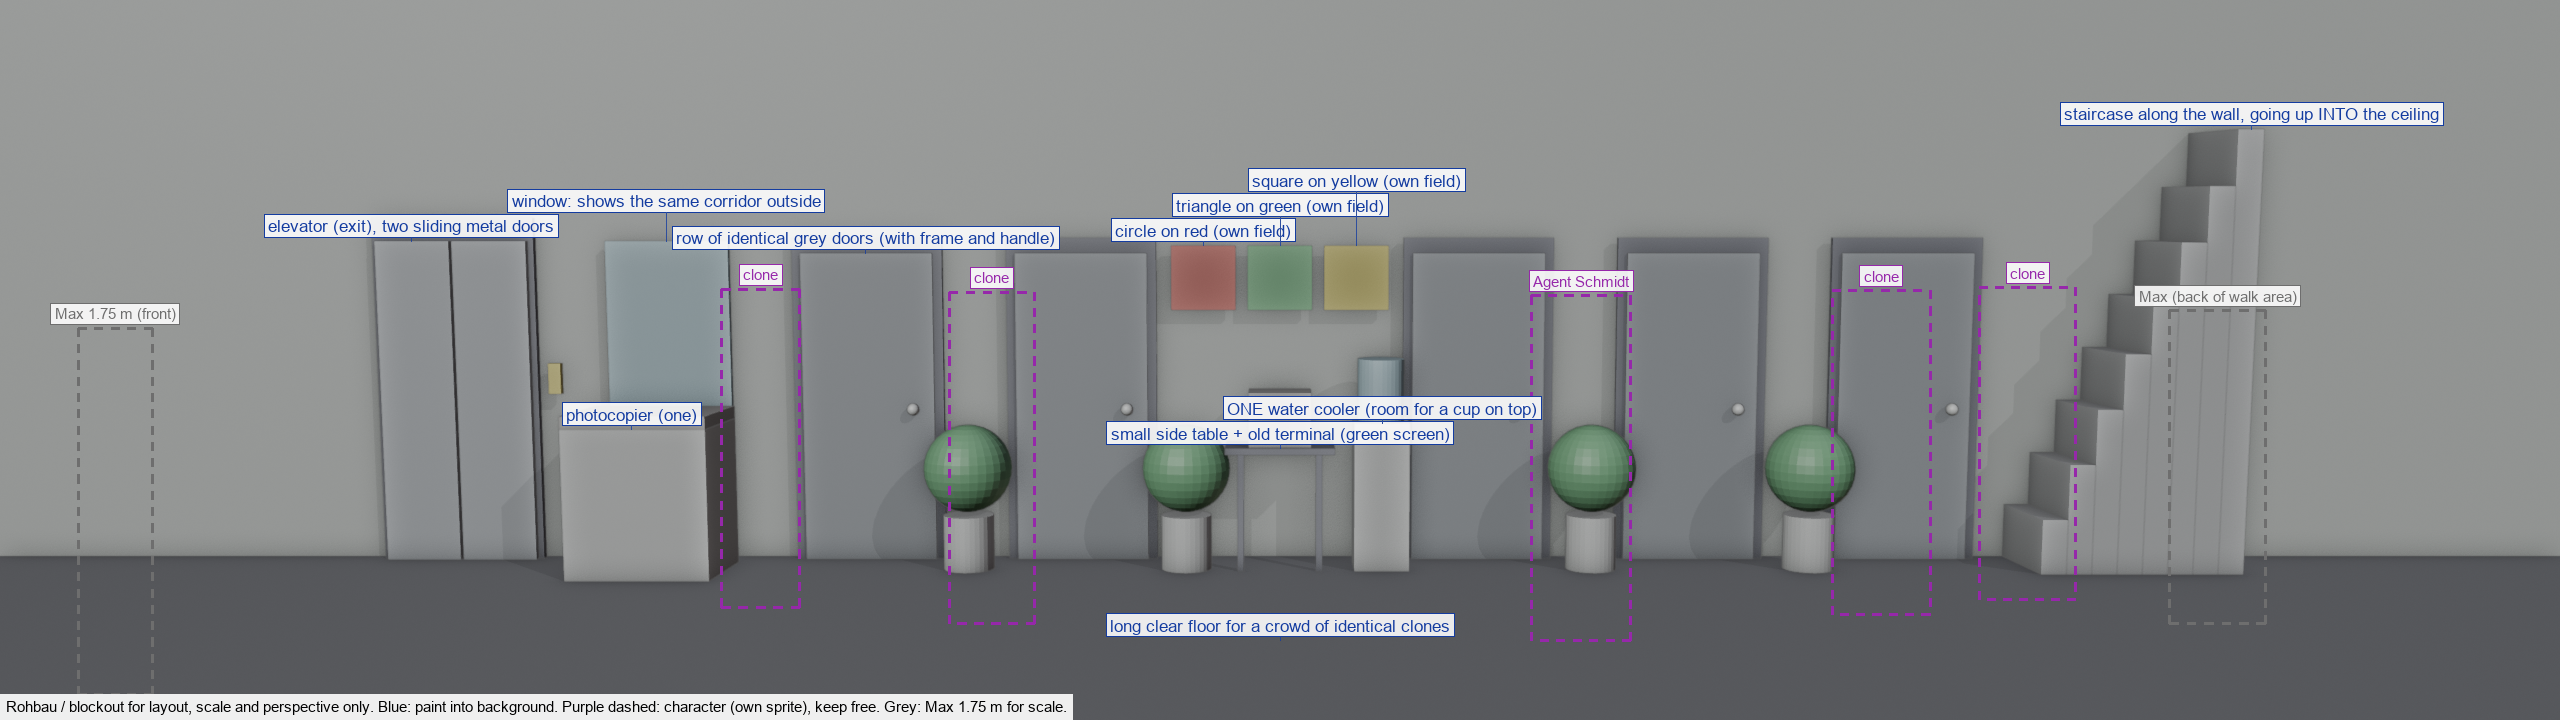
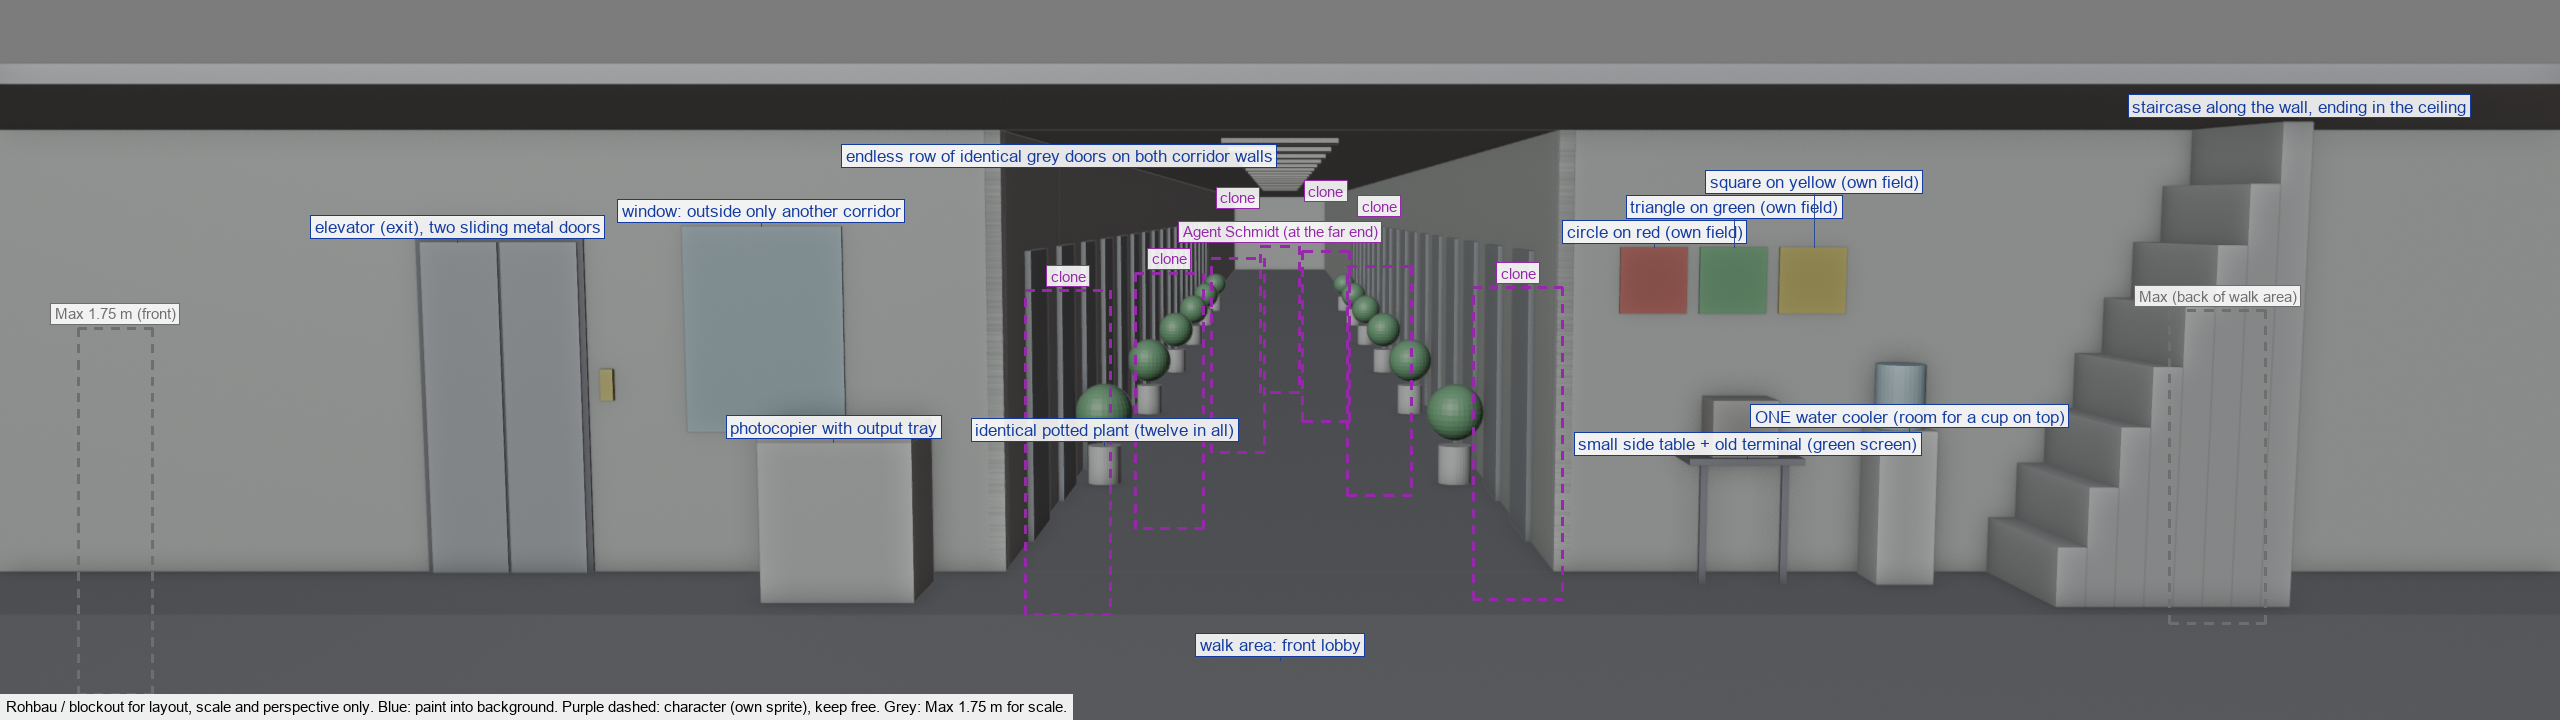
Welt 3: Büro 50 – Rohbau und Prompt als Vorraum mit endlosem Flur in die Tiefe (wie im Skript)

diff --git a/tools/grafik_w3/rohbau_raeume.py b/tools/grafik_w3/rohbau_raeume.py
@@ -309,47 +309,56 @@ def kueche():
 
 @raum("buero_50", 1280)
 def buero():
-    innenraum(tiefe=3.5, hoehe=2.8, wand=(0.88, 0.90, 0.86, 1))
+    """Vorraum vorn (Laufband), in der Mitte ein Flur, der in die Tiefe nicht aufhört
+    (Skript: „Ein Flur, der nicht aufhört“, Schmidt „am Ende des Flurs“, Klone füllen den Flur)."""
+    WANDF = (0.88, 0.90, 0.86, 1)
     TUER = (0.55, 0.57, 0.60, 1)
-
-    def tuer(x, label=None):
-        box(None, x, 3.42, 0.98, 0.04, 2.12, col=DUNKEL)                        # Zarge
-        box(label, x, 3.40, 0.86, 0.04, 2.02, col=TUER)
-        kugel(None, x + 0.3, 3.36, 0.04, 1.0, col=HELL)
-
-    def pflanze(x, label=None):
-        zyl(label, x, 3.1, 0.16, 0.35, col=HELL)
-        kugel(None, x, 3.1, 0.28, 0.65, col=GRUEN)
-
-    # ganz links: Aufzug (Ausgang), Fenster mit Kopierer davor
-    box(None, 0.6, 3.42, 1.05, 0.04, 2.25, col=DUNKEL)
-    box("elevator (exit), two sliding metal doors", 0.35, 3.38, 0.48, 0.04, 2.1, col=(0.70, 0.72, 0.75, 1))
-    box(None, 0.85, 3.38, 0.48, 0.04, 2.1, col=(0.70, 0.72, 0.75, 1))
-    box(None, 1.25, 3.38, 0.08, 0.04, 0.2, z=1.1, col=GELB)
-    box("window: shows the same corridor outside", 2.0, 3.40, 0.8, 0.04, 1.3, z=0.8, col=GLAS)
-    box("photocopier (one)", 2.0, 2.7, 0.9, 0.6, 0.95, col=HELL)
-    box(None, 2.0, 2.7, 0.9, 0.6, 0.08, z=0.95, col=MITTEL)
-    # Mitte: lange Reihe gleicher Türen, je eine Pflanze dazwischen
-    for i, x in enumerate((3.3, 4.7, 7.3, 8.7)):
-        tuer(x, "row of identical grey doors (with frame and handle)" if i == 0 else None)
-        pflanze(x + 0.7)
-    # Farbcode über dem Terminal, ein Wasserspender daneben
-    for i, (c, n) in enumerate([(ROT, "circle on red"), (GRUEN, "triangle on green"), (GELB, "square on yellow")]):
-        box(f"{n} (own field)", 5.5 + i * 0.5, 3.40, 0.42, 0.03, 0.42, z=1.65, col=c)
-    for x in (5.75, 6.25):
-        box(None, x, 3.0, 0.04, 0.04, 0.75, col=DUNKEL)
-    box("small side table + old terminal (green screen)", 6.0, 3.0, 0.7, 0.4, 0.04, z=0.75, col=DUNKEL)
-    box(None, 6.0, 3.05, 0.4, 0.3, 0.35, z=0.79, col=MITTEL)
-    box("ONE water cooler (room for a cup on top)", 6.65, 3.0, 0.35, 0.35, 0.95, col=HELL)
-    zyl(None, 6.65, 3.17, 0.15, 0.4, z=0.95, col=GLAS)
-    # rechts: noch eine Tür, Treppe an der Wand in die Decke
-    tuer(10.1)
+    LICHT = (0.97, 0.97, 0.92, 1)
+    L, R, Y0, Y1 = 4.25, 7.75, 3.0, 60.0          # Flur: linke/rechte Wand, Anfang, Ende
+    box(None, 6, -1, 30, 4.0, 0.02, z=-0.02, col=BODEN)                       # Boden Vorraum
+    box(None, 6, Y0, R - L, Y1 - Y0, 0.02, z=-0.02, col=BODEN)               # Boden Flur
+    box(None, 6, -1, 30, 4.0, 0.08, z=2.8, col=DECKE)                         # Decke Vorraum
+    box(None, 6, Y0, R - L + 0.2, Y1 - Y0, 0.08, z=2.8, col=DECKE)           # Decke Flur
+    box(None, (L - 12) / 2, Y0, L + 12, 0.15, 3.0, col=WANDF)                 # Rückwand links
+    box(None, (R + 18) / 2, Y0, 18 - R, 0.15, 3.0, col=WANDF)                 # Rückwand rechts
+    box(None, L - 0.05, Y0, 0.1, Y1 - Y0, 2.8, col=WANDF)                     # Flurwand links
+    box(None, R + 0.05, Y0, 0.1, Y1 - Y0, 2.8, col=WANDF)                     # Flurwand rechts
+    box(None, 6, Y1, R - L, 0.1, 2.8, col=WANDF)                              # fernes Ende
+    # Flur: gleiche Türen auf beiden Seiten, Pflanzen dazwischen, Deckenlichter
+    n = 0
+    for k in range(18):
+        y = Y0 + 1.0 + k * 1.7
+        for x, d in ((L + 0.02, 1), (R - 0.02, -1)):
+            box("endless row of identical grey doors on both corridor walls" if k == 1 and d == 1 else None,
+                x, y, 0.04, 0.86, 2.02, col=TUER)
+            if k % 3 == 1 and n < 12:
+                zyl("identical potted plant (twelve in all)" if n == 0 else None, x + d * 0.25, y + 0.95, 0.14, 0.32, col=HELL)
+                kugel(None, x + d * 0.25, y + 0.95, 0.24, 0.6, col=GRUEN)
+                n += 1
+        box(None, 6, y, 0.8, 0.4, 0.03, z=2.76, col=LICHT)
+    # Vorraum links: Aufzug (Ausgang), Fenster zu einem weiteren Flur, Kopierer
+    box(None, 1.1, Y0 - 0.02, 1.05, 0.04, 2.25, col=DUNKEL)
+    box("elevator (exit), two sliding metal doors", 0.85, Y0 - 0.04, 0.48, 0.04, 2.1, col=(0.70, 0.72, 0.75, 1))
+    box(None, 1.35, Y0 - 0.04, 0.48, 0.04, 2.1, col=(0.70, 0.72, 0.75, 1))
+    box(None, 1.75, Y0 - 0.04, 0.08, 0.04, 0.2, z=1.1, col=GELB)
+    box("window: outside only another corridor", 2.75, Y0 - 0.03, 1.0, 0.04, 1.3, z=0.9, col=GLAS)
+    box("photocopier with output tray", 3.4, 2.1, 0.9, 0.6, 0.95, col=HELL)
+    box(None, 3.4, 2.1, 0.9, 0.6, 0.08, z=0.95, col=MITTEL)
+    # Vorraum rechts: Farbcode über dem Terminal, ein Wasserspender, Treppe in die Decke
+    for i, (c, n_) in enumerate([(ROT, "circle on red"), (GRUEN, "triangle on green"), (GELB, "square on yellow")]):
+        box(f"{n_} (own field)", 8.35 + i * 0.5, Y0 - 0.03, 0.42, 0.03, 0.42, z=1.65, col=c)
+    for x in (8.6, 9.1):
+        box(None, x, Y0 - 0.4, 0.04, 0.04, 0.75, col=DUNKEL)
+    box("small side table + old terminal (green screen)", 8.85, Y0 - 0.45, 0.7, 0.4, 0.04, z=0.75, col=DUNKEL)
+    box(None, 8.85, Y0 - 0.4, 0.4, 0.3, 0.35, z=0.79, col=MITTEL)
+    box("ONE water cooler (room for a cup on top)", 9.85, Y0 - 0.4, 0.35, 0.35, 0.95, col=HELL)
+    zyl(None, 9.85, Y0 - 0.22, 0.15, 0.4, z=0.95, col=GLAS)
     for i in range(8):
-        box("staircase along the wall, going up INTO the ceiling" if i == 7 else None,
-            10.9 + i * 0.16, 2.9, 0.16, 1.0, 0.35 * (i + 1), col=(0.80, 0.80, 0.80, 1))
-    notiz("long clear floor for a crowd of identical clones", 6.0, 1.0, 0.05)
-    figur("Agent Schmidt", 7.6, 1.2, 1.85)
-    for x, y in ((3.0, 2.0), (4.4, 1.6), (9.4, 1.8), (10.4, 2.2)):
+        box("staircase along the wall, ending in the ceiling" if i == 7 else None,
+            10.6 + i * 0.17, Y0 - 1.0, 0.17, 1.0, 0.35 * (i + 1), col=(0.82, 0.82, 0.82, 1))
+    notiz("walk area: front lobby", 6.0, 0.6, 0.05)
+    figur("Agent Schmidt (at the far end)", 6.0, 14.0, 1.85)
+    for x, y in ((5.2, 4.5), (6.8, 6.0), (5.6, 8.5), (6.5, 11.0), (4.8, 1.8), (7.4, 2.2)):
         figur("clone", x, y, 1.85)
     max_massstab()
 

diff --git a/docs/grafik/welt-3.md b/docs/grafik/welt-3.md
@@ -77,7 +77,7 @@ Standardweg: Konzeptbild mit dem Baustein KONZEPT in Gemini, danach `tools/pixel
 | Laboreingang | Realität innen | Tür zu und offen | Panzertür, Kartenleser, Pinnwand, Wischeimer, Warnstreifen, Deckenlampe, Gang zur Straße | Underground concrete passage below the city, front view with gentle depth. Center: a heavy round steel blast door set into the back wall, closed. Right of the door: a wall-mounted card reader with a small red light. Left: a mop bucket full of clean water and a corkboard covered in pinned charts and blank result sheets; exit back up to the street at the left edge. Yellow-black warning stripes along the back of the floor, the front kept clear and wet. A single ceiling lamp, water dripping beside it. Second version, same framing: the blast door rolled aside, revealing a small room with a wall of glowing cyan data ports and one thick cable plugged in |
 | Stadtstraße | Simulation | Tag und Nacht (Strom der Kapsel aus). 1280×360 als ein Panorama in einem Bild (Seitenverhältnis 32:9) | Nachttisch mit Radiowecker (Anzeige 5:59; klingelnd 6:00), Gehweg für die Katze, Glastür des Büroturms, Haus der Orakel-Oma mit Spitzengardinen, gleiche Bäume und Häuser, freie Fahrbahn für die Autos im Takt (Effekt, keine gemalten Autos), Nachttisch als eigenes Vordergrundteil, Omas Haustür in Max-Größe, Sonne, Wolke dreimal | ONE single continuous panoramic image, extra wide 32:9 (1280x360), seen through one fixed camera from the front with gentle depth: a single uninterrupted city street that runs from the left edge to the right edge without any seam, split, border, divider or second panel. The horizon line, the sidewalk, the curb and the road stay at exactly the same height across the whole width. A suspiciously perfect city street on a sunny day. From left to right: at the far left, close to the viewer at the front edge of the sidewalk, a small wooden bedside table standing alone with a 1980s clock radio on it, red digits on its display; behind it a narrow, too-clean alley entrance. Behind the front sidewalk a clean empty asphalt road runs across the whole width, no cars on it and no cars parked anywhere. Across the road a second narrow sidewalk, then identical round trees and identical street lamps in a perfect evenly spaced row, then identical white houses with small front lawns; one house near the middle has lace curtains, a large front door and a small blank sign beside it, its door clearly big enough for an adult. At the far right, on the near side of the road, the ground floor of a tall glass office tower that is cut off by the top edge, with a closed glass entrance door and a small grey intercom plate beside it. One long clean sidewalk across the whole lower part of the image, no cracks, no gum, wide enough to walk on. Perfect blue sky with a small round sun and the same small cloud appearing exactly three times at even distances. Second version: the same street at night, dark blue sky, street lamps on, windows dark |
 | Küche der Orakel-Oma | Simulation innen | Sparschwein auf dem Regal; Sparschwein weg, Scherben am Boden | Ofen, Sparschwein auf dem Regal, Kochbuch, Radio, Gläser, Eieruhr, Kuckucksuhr, Gabel, Teller und Teekanne, Kehrblech mit Besen, Haustür | A homely retro kitchen seen from a few steps back, front view with gentle depth, furniture in normal adult size. Left: an old cream enamel oven with a window, a tray of round golden cookies inside, warm glow; a dustpan and broom leaning beside it, the broom turned toward the room. Center: a wooden kitchen table at the hip height of an adult, a chair beside it, on the table an empty plate, a teapot, a single straight silver fork and a thick open appliance manual showing a drawing of a stand mixer. Right: a high wall shelf with a blue ceramic piggy bank, a small radio and three jars with blank labels; below it a small side shelf with a wind-up kitchen timer shaped like a white hen, next to the front door at the right edge. Back wall: floral wallpaper, a window with lace curtains, a cuckoo clock. Warm light. Second version, same framing: the shelf without the piggy bank, blue shards on the floor below it |
-| Büroturm, 50. Stock | Simulation innen | 1280×360 als ein Panorama in einem Bild (Seitenverhältnis 32:9; Entscheidung 20.11.: breiter, damit Türreihe und Klon-Menge Platz haben) | Farbcode an der Wand, Terminal, Fenster, gleiche Türen, Bürokopierer, Wasserspender mit Platz für die Kaffeetasse (Sprite aus dem Gegenstands-Sammelbild, dort legt Schmidt auch die Sonnenbrille ab), Treppe in die Decke, Aufzugstür | Wide panoramic 1280x360 scene in one continuous image. An endless office corridor on the 50th floor, front view with gentle depth, plain pale walls. Along the back wall from left to right: a metal elevator with two sliding doors and a small call button (the exit); a window showing only more of the same corridor outside, with one grey office photocopier standing in front of it; then a long row of identical grey office doors with frames and handles, one small potted plant beside each door; in the middle of the row three separate square colour fields side by side at eye height, each with exactly one large black symbol inside it: a circle on the red field, a triangle on the green field, a square on the yellow field, below them a small side table with an old computer terminal with a green screen, next to it ONE single water cooler with a big bubble bottle; more identical doors; at the far right a plain staircase running up along the wall and ending in the ceiling. All doors look exactly the same. No columns, no second water cooler, no side walls with doors. Floor clear and long for a crowd of clones. Cold flat fluorescent light |
+| Büroturm, 50. Stock | Simulation innen | 1280×360 als ein Panorama in einem Bild (Seitenverhältnis 32:9; Entscheidung 20.11.: breiter, damit Türreihe und Klon-Menge Platz haben) | Farbcode an der Wand, Terminal, Fenster, gleiche Türen, Bürokopierer, Wasserspender mit Platz für die Kaffeetasse (Sprite aus dem Gegenstands-Sammelbild, dort legt Schmidt auch die Sonnenbrille ab), Treppe in die Decke, Aufzugstür | Wide panoramic 1280x360 scene in one continuous image, front view with gentle depth, one central vanishing point. The 50th floor of an office tower: a wide plain office lobby across the front, and in the middle of its back wall a long straight corridor that runs away into the distance and never seems to end, its two side walls lined with identical grey office doors in perfect rhythm, identical small potted plants between some of them, a row of identical ceiling lights shrinking toward the far end. Left part of the lobby back wall: a metal elevator with two sliding doors and a small call button (the exit), then a window that shows only another identical corridor outside, a grey office photocopier with an output tray standing in front of the window. Right part of the lobby back wall: three separate square colour fields side by side at eye height, each with exactly one large black symbol inside it: a circle on the red field, a triangle on the green field, a square on the yellow field; below them a small side table with an old computer terminal with a green screen; next to it ONE single water cooler with a big bubble bottle; at the right edge a plain staircase running up along the wall and ending in the ceiling. Lobby floor clear and wide, the corridor floor clear for a crowd of identical clones. No columns, no second water cooler. Cold flat fluorescent light |
 | Testkammer 1 | Labor | Ausgangstür zu und offen (das Portalgerät hängt als eigenes Sprite aus dem Labor-Sammelbild in der Halterung) | Bodenschalter, Ausgangstür, Portalgerät-Halterung, Lautsprecher, Pappkuchen | A bright white test chamber built from identical square wall panels, front view with gentle depth. Left: the entrance and an empty white wall mount for a handheld device. Center: a large round red floor button set flush into the floor. Right: a closed sliding exit door. A small round speaker in the ceiling. Right corner: a cardboard cake with a painted candle. Second version, same framing: the exit door slid open |
 | Testkammer 2 | Labor | Laser tödlich (rot) und harmlos (blassrosa); das Gummihuhn steht als eigenes Sprite aus dem Labor-Sammelbild auf dem Sockel | Lasersperre, Gummihuhn-Sockel, Kritzelei mit Regel 3, Ausgangstür | The same white test chamber, same framing and panels. Right: the closed exit door, and directly in front of it two short emitter posts with three horizontal red laser beams between them, blocking the door. Left: a small empty white pedestal. Center, low on one wall panel near the floor: hasty black marker scribbles, unreadable, with one small neat block of print beside them. A large round loudspeaker on the wall. Second version: the laser beam pale pink and wobbly |
 | Testkammer 3 | Labor | Tür zu und offen | Verschlossene Tür mit Spalt für Bernd, Lautsprecher, Platz für das Huhn | The same white test chamber, same framing. Right: a large exit door with a big padlock symbol; directly in front of the door, touching it, a narrow slot in the floor exactly one small cube wide, so a cube standing in it blocks the door. Next to the door: a large round loudspeaker with a perforated grille, the size of a window. Left: entrance and an empty spot on the floor for the rubber chicken. Second version: the exit door wide open |

diff --git a/docs/grafik/fertige-prompts/welt-3.md b/docs/grafik/fertige-prompts/welt-3.md
@@ -346,7 +346,7 @@ NEGATIVE: no new objects, no changed camera or framing, no style change, no text
 
 ```text
 STYLE: Concept art for a 2D point-and-click adventure game in the style of classic 1990s adventure games, front view of the room with gentle one-point perspective, camera at the eye level of a standing person looking straight at the back wall, back wall parallel to the picture plane, vanishing point in the center at about 40 percent of the image height, side walls at most as narrow angled strips at the image edges, open walkable floor with gentle depth across the lower third to half of the image kept free of objects except at the left and right edges, wide shot from further back so the room feels spacious: a standing adult at the front edge would be about 52 percent of the image height, so doors and tall cupboards reach only about 50 percent of the image height, chairs about 25 percent and tables about 22 percent, no top-down, bird's-eye or strong three-quarter view, no fisheye, every object drawn exactly as described and nothing added, no faces or robot features on objects, small loose objects that can be picked up left out, book spines, calendars, posters and labels without any letters or numbers, light from the upper left with soft shadows to the lower right, humorous and whimsical, warm hand-painted look, 16:9, no text, no letters, no logos.
-SCENE: Wide panoramic 1280x360 scene in one continuous image. An endless office corridor on the 50th floor, front view with gentle depth, plain pale walls. Along the back wall from left to right: a metal elevator with two sliding doors and a small call button (the exit); a window showing only more of the same corridor outside, with one grey office photocopier standing in front of it; then a long row of identical grey office doors with frames and handles, one small potted plant beside each door; in the middle of the row three separate square colour fields side by side at eye height, each with exactly one large black symbol inside it: a circle on the red field, a triangle on the green field, a square on the yellow field, below them a small side table with an old computer terminal with a green screen, next to it ONE single water cooler with a big bubble bottle; more identical doors; at the far right a plain staircase running up along the wall and ending in the ceiling. All doors look exactly the same. No columns, no second water cooler, no side walls with doors. Floor clear and long for a crowd of clones. Cold flat fluorescent light.
+SCENE: Wide panoramic 1280x360 scene in one continuous image, front view with gentle depth, one central vanishing point. The 50th floor of an office tower: a wide plain office lobby across the front, and in the middle of its back wall a long straight corridor that runs away into the distance and never seems to end, its two side walls lined with identical grey office doors in perfect rhythm, identical small potted plants between some of them, a row of identical ceiling lights shrinking toward the far end. Left part of the lobby back wall: a metal elevator with two sliding doors and a small call button (the exit), then a window that shows only another identical corridor outside, a grey office photocopier with an output tray standing in front of the window. Right part of the lobby back wall: three separate square colour fields side by side at eye height, each with exactly one large black symbol inside it: a circle on the red field, a triangle on the green field, a square on the yellow field; below them a small side table with an old computer terminal with a green screen; next to it ONE single water cooler with a big bubble bottle; at the right edge a plain staircase running up along the wall and ending in the ceiling. Lobby floor clear and wide, the corridor floor clear for a crowd of identical clones. No columns, no second water cooler. Cold flat fluorescent light.
 PALETTE: overly clean interior palette with a faint green tint, even shadowless-looking light, no dirt anywhere, slightly too symmetrical, no sky. Color anchors, approximate: clean grey #c0cbdc, white #ffffff, faint green tint #63c74d, pale wood #e4a672.
 LAYOUT: Use the attached grey blockout only for layout, perspective, horizon height and the size of every object relative to the 1.75 m person; paint in the style of the reference image, do not copy the grey colours, do not paint any people or animals.
 NEGATIVE: no characters, people or animals in the walkable area, no text, letters, numbers or logos, no faces or robot features on objects, no loose objects that can be picked up, no objects that are not described, no top-down, bird's-eye or fisheye view, no tilted floor, no photorealism, no 3D render, no blur, no watermark
